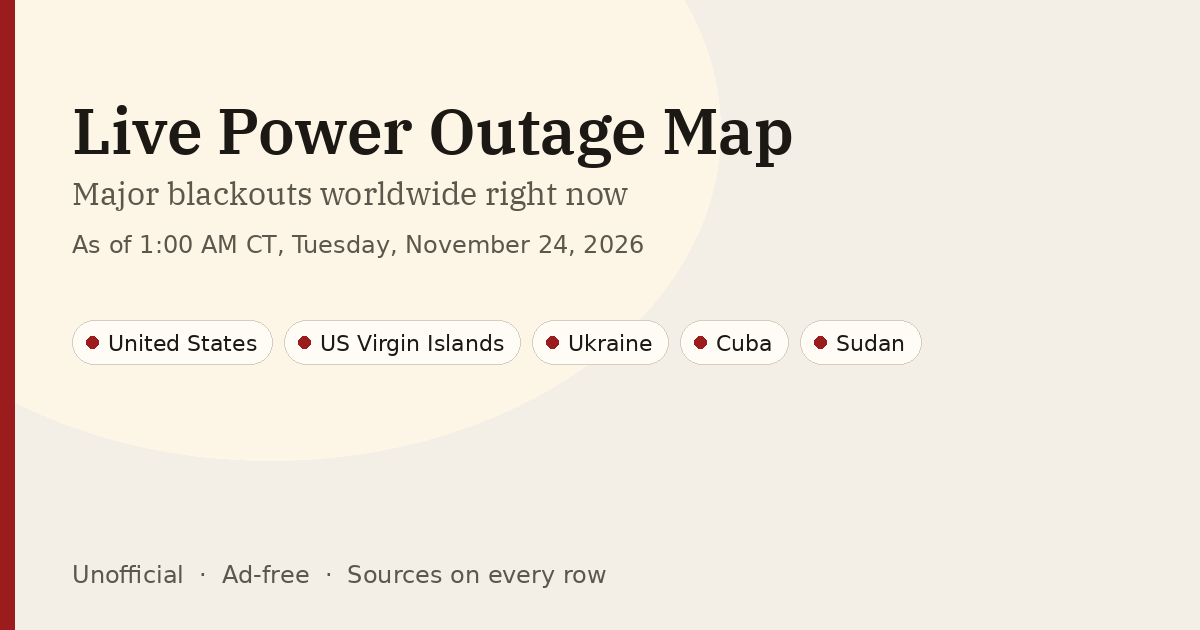
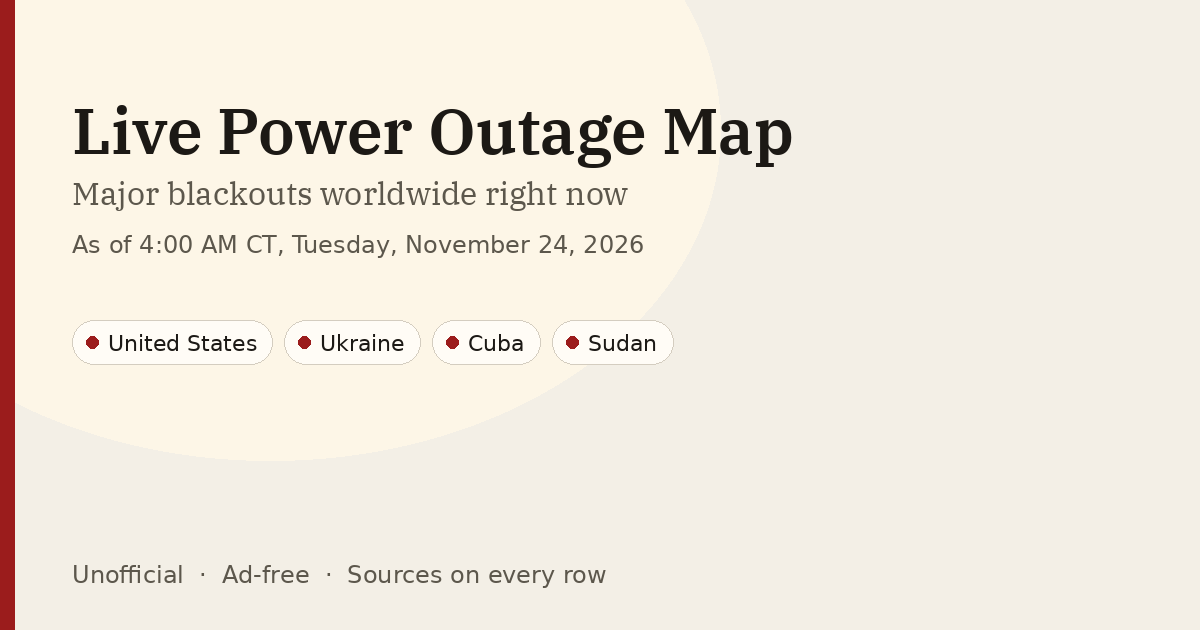
Update US outage data (4:12 AM CT)

Changed region(s): [[0.2775, 0.5127, 0.6475, 0.573], [0.6783, 0.5127, 0.7708, 0.573]]

diff --git a/index.html b/index.html
@@ -62,7 +62,7 @@
       "about": {
         "@id": "https://blackoutsmap.com/#dataset"
       },
-      "dateModified": "2026-11-24T01:00:00-06:00",
+      "dateModified": "2026-11-24T04:00:00-06:00",
       "primaryImageOfPage": "https://blackoutsmap.com/og-image.png",
       "inLanguage": "en"
     },
@@ -73,8 +73,8 @@
       "description": "A frequently updated list of significant power outages and electricity shortfalls worldwide. Each record gives the place, country or region, cause, customers affected or MW shortfall, start time, estimated restoration time when published, the source URL, and when it was last checked. US figures come from MassOutage (CC BY 4.0), with some state and territory counts from PowerOutage.us; other rows come from utility, grid operator, and news reports linked on each row. US data refreshes about hourly; the worldwide list updates a few times a day.",
       "url": "https://blackoutsmap.com/",
       "isAccessibleForFree": true,
-      "dateModified": "2026-11-24T01:00:00-06:00",
-      "temporalCoverage": "2026-11-24T01:00:00-06:00",
+      "dateModified": "2026-11-24T04:00:00-06:00",
+      "temporalCoverage": "2026-11-24T04:00:00-06:00",
       "spatialCoverage": {
         "@type": "Place",
         "name": "Worldwide"
@@ -107,7 +107,6 @@
         "load shedding",
         "Cuba",
         "Sudan",
-        "U.S. Virgin Islands",
         "Ukraine",
         "United States"
       ]
@@ -197,7 +196,7 @@
     <main>
     <header class="top">
       <h1>Live Power Outage Map</h1>
-      <p class="dateline">As of <strong id="as-of">1:00 AM CT, Tuesday, November 24, 2026</strong><br>Times in Central Time (CT)</p>
+      <p class="dateline">As of <strong id="as-of">4:00 AM CT, Tuesday, November 24, 2026</strong><br>Times in Central Time (CT)</p>
     </header>
 
     <p class="intro">This free, ad-free map tracks significant power outages and blackouts around the world right now. Each outage shows where it is, how many customers are affected, the cause, and the estimated restoration time when one is published, with a link to the source. It is unofficial: for your own address, check your electric utility's outage map. <a href="#faq">How this map works</a></p>
@@ -208,7 +207,7 @@
 
 
     <div class="metrics" id="metrics">
-      <article class="metric" id="metric-us"><!-- build:metric-us --><div class="label">United States</div><div class="value">54,207</div><div class="detail">54,207 customers out</div><!-- /build:metric-us --></article>
+      <article class="metric" id="metric-us"><!-- build:metric-us --><div class="label">United States</div><div class="value">24,279</div><div class="detail">24,279 customers out</div><!-- /build:metric-us --></article>
     </div>
 
     <nav class="region-nav" id="region-nav" aria-label="Outages by country">
@@ -218,7 +217,6 @@
 <li><a href="ukraine/">Ukraine power outage today</a></li>
 <li><a href="cuba/">Cuba power outage today</a></li>
 <li><a href="sudan/">Sudan power outage today</a></li>
-<li><a href="us-virgin-islands/">US Virgin Islands power outage today</a></li>
       <!-- /build:region-links --></ul>
     </nav>
 
@@ -251,12 +249,12 @@
             </tr>
           </thead>
           <tbody id="outage-body"><!-- build:table -->
-<tr><td class="place-cell"><a class="place-link" href="us/">United States</a></td><td>Nationwide</td><td class="empty">—</td><td>54,207 customers out</td><td class="empty">—</td><td class="empty">—</td><td><a href="https://massoutage.com/" target="_blank" rel="noopener noreferrer">MassOutage + PowerOutage.us</a></td><td>1:00 AM CT</td></tr>
-<tr><td class="place-cell"><a class="place-link" href="us/">California</a></td><td>United States</td><td class="empty">—</td><td>7,238 customers out</td><td class="empty">—</td><td class="empty">—</td><td><a href="https://massoutage.com/california" target="_blank" rel="noopener noreferrer">MassOutage</a></td><td>1:00 AM CT</td></tr>
-<tr><td class="place-cell"><a class="place-link" href="us-virgin-islands/">U.S. Virgin Islands</a></td><td>United States</td><td class="empty">—</td><td>6,636 customers out</td><td class="empty">—</td><td class="empty">—</td><td><a href="https://poweroutage.us/area/state/virgin%20islands" target="_blank" rel="noopener noreferrer">PowerOutage.us</a></td><td>2:13 PM CT</td></tr>
-<tr><td class="place-cell"><a class="place-link" href="us/">Texas</a></td><td>United States</td><td class="empty">—</td><td>5,927 customers out</td><td class="empty">—</td><td class="empty">—</td><td><a href="https://poweroutage.us/area/state/texas" target="_blank" rel="noopener noreferrer">PowerOutage.us</a></td><td>2:13 PM CT</td></tr>
-<tr><td class="place-cell"><a class="place-link" href="us/">Oregon</a></td><td>United States</td><td class="empty">—</td><td>4,441 customers out</td><td class="empty">—</td><td class="empty">—</td><td><a href="https://poweroutage.us/area/state/oregon" target="_blank" rel="noopener noreferrer">PowerOutage.us</a></td><td>2:13 PM CT</td></tr>
-<tr><td class="place-cell"><a class="place-link" href="us/">Georgia</a></td><td>United States</td><td class="empty">—</td><td>3,326 customers out</td><td class="empty">—</td><td class="empty">—</td><td><a href="https://poweroutage.us/area/state/georgia" target="_blank" rel="noopener noreferrer">PowerOutage.us</a></td><td>2:13 PM CT</td></tr>
+<tr><td class="place-cell"><a class="place-link" href="us/">United States</a></td><td>Nationwide</td><td class="empty">—</td><td>24,279 customers out</td><td class="empty">—</td><td class="empty">—</td><td><a href="https://massoutage.com/" target="_blank" rel="noopener noreferrer">MassOutage + PowerOutage.us</a></td><td>4:00 AM CT</td></tr>
+<tr><td class="place-cell"><a class="place-link" href="us/">South Carolina</a></td><td>United States</td><td class="empty">—</td><td>6,122 customers out</td><td class="empty">—</td><td class="empty">—</td><td><a href="https://massoutage.com/south-carolina" target="_blank" rel="noopener noreferrer">MassOutage</a></td><td>4:00 AM CT</td></tr>
+<tr><td class="place-cell"><a class="place-link" href="us/">California</a></td><td>United States</td><td class="empty">—</td><td>4,592 customers out</td><td class="empty">—</td><td class="empty">—</td><td><a href="https://poweroutage.us/area/state/california" target="_blank" rel="noopener noreferrer">PowerOutage.us</a></td><td>2:13 AM CT</td></tr>
+<tr><td class="place-cell"><a class="place-link" href="us/">Texas</a></td><td>United States</td><td class="empty">—</td><td>2,203 customers out</td><td class="empty">—</td><td class="empty">—</td><td><a href="https://massoutage.com/texas" target="_blank" rel="noopener noreferrer">MassOutage</a></td><td>4:00 AM CT</td></tr>
+<tr><td class="place-cell"><a class="place-link" href="us/">Louisiana</a></td><td>United States</td><td class="empty">—</td><td>1,029 customers out</td><td class="empty">—</td><td class="empty">—</td><td><a href="https://poweroutage.us/area/state/louisiana" target="_blank" rel="noopener noreferrer">PowerOutage.us</a></td><td>2:13 AM CT</td></tr>
+<tr><td class="place-cell"><a class="place-link" href="us/">Illinois</a></td><td>United States</td><td class="empty">—</td><td>1,011 customers out</td><td class="empty">—</td><td class="empty">—</td><td><a href="https://poweroutage.us/area/state/illinois" target="_blank" rel="noopener noreferrer">PowerOutage.us</a></td><td>2:13 AM CT</td></tr>
 <tr><td class="place-cell"><a class="place-link" href="ukraine/">Kyiv and nationwide</a></td><td>Ukraine</td><td class="clamp-cell"><span class="clamp-preview">Rolling and emergency blackouts after Russian attacks on energy</span><span class="clamp-full" id="clamp-full-1">Rolling and emergency blackouts after Russian attacks on energy infrastructure, including a large-scale attack on Nov 20 and further strikes reported on Nov 21 and into Nov 22 and Nov 23. Ukrenergo said planned outage schedules would be in effect around the clock on Monday, Nov 23, and again on Tuesday, Nov 24, in parts of the country because of those attacks</span><button type="button" class="clamp-toggle" aria-expanded="false" aria-label="Show full text" aria-controls="clamp-full-1">…</button></td><td class="clamp-cell"><span class="clamp-preview">Ukrenergo, as reported by LB.ua at 7:20 p.m. Monday, Nov 23 (11:20 a.m.</span><span class="clamp-full" id="clamp-full-2">Ukrenergo, as reported by LB.ua at 7:20 p.m. Monday, Nov 23 (11:20 a.m. CT if Kyiv time / EET), by UNIAN at 8:59 p.m. Monday, Nov 23 (12:59 p.m. CT if Kyiv time / EET), and by UNN at 5:13 p.m. Monday, Nov 23 (9:13 a.m. CT if Kyiv time / EET), said that on Tuesday, Nov 24, scheduled power-supply restrictions would be in effect around the clock in parts of Ukraine because of the aftermath of Russian attacks on the energy system: hourly outage schedules of 0.5 to 3.5 groups, or queues, for all categories of consumers, and capacity-limitation schedules for industrial consumers. UNIAN, citing Ukrenergo, said those 0.5 to 3.5 queues amounted to about 2 to 14 hours without power, and UNN likewise said one group means four hours without electricity, so Tuesday outages may last from 2 to 14 hours. UNIAN also summarized Tuesday regional schedules, saying that in Sumy and the Sumy region the total duration without power would be from six to 14 hours; that in Lviv and the Lviv region some queues had no outages scheduled and the rest would be switched off once for two to four and a half hours; that in Poltava and the Poltava region customers would be switched off four times a day, except for two half-queues with three and five periods, with each outage lasting from half an hour to three and a half hours; and that Kyiv schedules would be applied individually and should be checked through local operators. LB.ua, in the same Nov 23 report, said that at present the most difficult situation with electricity supply remained in Dnipropetrovsk and Odesa regions. Kyiv Independent, in an article dated 9:19 p.m. Monday, Nov 23 (1:19 p.m. CT if Kyiv time / EET), citing the private energy company DTEK, said Russian attacks on four DTEK energy facilities in Dnipropetrovsk Oblast over Nov 21 and Nov 22 had left about 353,000 households without electricity, that emergency power cuts were in effect in Dnipro and the Dniprovskyi, Samarivskyi, Kamianskyi, and Pavlohradskyi districts, with regular outage schedules suspended there, and that other parts of the region were subject to scheduled cuts ordered by Ukrenergo; DTEK, as quoted in that report, said emergency repair crews had worked through the night and were continuing restoration, prioritizing critical infrastructure, but that damage to main transmission networks meant technicians could not yet reconnect all consumers, and it did not give a timeline for restoring power to all affected households. NV, in an article dated 3:46 p.m. Monday, Nov 23 (7:46 a.m. CT if Kyiv time / EET), and Delo.ua, also citing DTEK, gave the same figure of about 353,000 households and said a significant part of Dnipro, the city of Samar, and adjacent districts had been left without power. Earlier Monday, Kyiv Post, in an article dated 2:18 p.m. Monday, Nov 23 (7:18 a.m. CT if Kyiv time / EET), citing Ukraine&#x27;s Energy Ministry and First Deputy Energy Minister Artem Nekrasov, said Russia had carried out 100 attacks on Ukraine&#x27;s energy, oil, and gas infrastructure over the past week, contributing to 224 recorded damage incidents, and that power outages had continued to affect seven regions on Monday, Nov 23: Dnipropetrovsk, Donetsk, Zhytomyr, Sumy, Kharkiv, Odesa, and Poltava, with the situation remaining particularly difficult in Odesa and Dnipropetrovsk regions. The same Kyiv Post report, citing Nekrasov, said energy workers had restored power to critical infrastructure facilities while repairs and efforts to reconnect households and businesses continued; that grid restrictions had been introduced in Dnipropetrovsk region to prevent further outages caused by overloads; that emergency power cuts remained in place in Kharkiv region because of previous damage and reduced voltage in the high-voltage transmission network, with scheduled outages to resume once the situation stabilized; and that Russian forces had also struck a gas-infrastructure facility in Dnipropetrovsk region in the previous days, injuring three employees. Kyiv Post also said that across most of Ukraine, hourly electricity outage schedules were in place on Nov 23, while industrial consumers faced power restrictions, and, citing Ukraine&#x27;s Air Force data reported by Ukrainian media, that on the night of Nov 23 Russia launched 153 attack drones against Ukraine, including 60 jet-powered Shahed drones, alongside Gerbera drones and Parodiya decoys. An earlier Sunday night Ukrenergo statement, as reported by Censor.NET at 10:24 p.m. EET Sunday, Nov 22 (2:24 p.m. CT), by UNIAN at 11:13 p.m. EET Sunday (3:13 p.m. CT), by Focus, and by 24tv, had said that on Monday, Nov 23, planned electricity outages would be in effect around the clock in parts of the country: hourly outage schedules of 1 to 3.5 groups, or queues, for all categories of consumers, and capacity-restriction schedules for industry. UNIAN, in that Sunday night report, said those 1 to 3.5 queues amounted to approximately 4 to 16 hours a day for household consumers. No official nationwide customer count was found as of 11:55 PM CT Monday, Nov 23 (7:55 a.m. EET Tuesday, Nov 24).</span><button type="button" class="clamp-toggle" aria-expanded="false" aria-label="Show full text" aria-controls="clamp-full-2">…</button></td><td class="empty">—</td><td class="empty">—</td><td><a href="https://en.lb.ua/news/2026/11/23/51172_ukrenergo_power_outage_schedules.html" target="_blank" rel="noopener noreferrer">en.lb.ua</a></td><td class="clamp-cell"><span class="clamp-preview">Nov 23-24, 2026, Ukrenergo Tuesday, Nov 24, schedules of 0.5 to 3.5</span><span class="clamp-full" id="clamp-full-3">Nov 23-24, 2026, Ukrenergo Tuesday, Nov 24, schedules of 0.5 to 3.5 queues around the clock, and industrial capacity limits, via LB.ua 7:20 p.m. Monday, Nov 23 (= 11:20 a.m. CT if Kyiv time / EET), UNIAN 8:59 p.m. Monday (= 12:59 p.m. CT if Kyiv time / EET), and UNN 5:13 p.m. Monday (= 9:13 a.m. CT if Kyiv time / EET), with UNIAN and UNN saying those queues amounted to about 2 to 14 hours, and LB.ua saying the most difficult supply situation remained in Dnipropetrovsk and Odesa regions; earlier Kyiv Independent dated 9:19 p.m. Monday, Nov 23 (= 1:19 p.m. CT if Kyiv time / EET), citing DTEK, on about 353,000 households without power in Dnipropetrovsk Oblast after attacks on four DTEK facilities on Nov 21-22, emergency cuts in Dnipro and four districts, and scheduled cuts elsewhere in the region; NV 3:46 p.m. Monday (= 7:46 a.m. CT if Kyiv time / EET) and Delo.ua, also citing DTEK, on the same 353,000-household figure and on a significant part of Dnipro, Samar, and adjacent districts left without power; earlier Kyiv Post dated 2:18 p.m. Monday, Nov 23 (= 7:18 a.m. CT if Kyiv time / EET), citing the Energy Ministry and First Deputy Energy Minister Artem Nekrasov, on 100 attacks on energy, oil, and gas infrastructure in the past week with 224 damage incidents, outages in seven regions on Monday with Odesa and Dnipropetrovsk among the hardest hit, emergency blackouts remaining in Kharkiv, grid restrictions in Dnipropetrovsk region, and, citing Ukraine&#x27;s Air Force data reported by Ukrainian media, 153 attack drones launched on the night of Nov 23, including 60 jet-powered Shahed drones; earlier Sunday night Ukrenergo schedules of 1 to 3.5 queues via Censor.NET, UNIAN, Focus, and 24tv, with UNIAN saying those queues amounted to approximately 4 to 16 hours a day; rechecked 11:55 PM CT Monday, Nov 23 (7:55 a.m. EET Tuesday, Nov 24), no official nationwide customer count found</span><button type="button" class="clamp-toggle" aria-expanded="false" aria-label="Show full text" aria-controls="clamp-full-3">…</button></td></tr>
 <tr><td class="place-cell"><a class="place-link" href="ukraine/">Odesa and parts of Odesa district</a></td><td>Odesa, Ukraine</td><td class="clamp-cell"><span class="clamp-preview">Repeated Russian attacks on high-voltage transmission networks and</span><span class="clamp-full" id="clamp-full-4">Repeated Russian attacks on high-voltage transmission networks and other energy facilities critical to the region, including a strike on a DTEK Odeski Elektromerezhi energy facility on the morning of Nov 20. Later on Monday, Nov 23, Odesa regional governor Oleh Kiper said scheduled power-outage timetables were being reinstated in place of emergency blackouts after energy workers restored damaged infrastructure, and DTEK Odeski Elektromerezhi said repairs had made a return to stabilization schedules possible, while warning that the energy system remained vulnerable to significant loads</span><button type="button" class="clamp-toggle" aria-expanded="false" aria-label="Show full text" aria-controls="clamp-full-4">…</button></td><td class="clamp-cell"><span class="clamp-preview">Odesa regional governor Oleh Kiper, as reported by LB.ua at 8:03 p.m.</span><span class="clamp-full" id="clamp-full-5">Odesa regional governor Oleh Kiper, as reported by LB.ua at 8:03 p.m. Monday, Nov 23 (12:03 p.m. CT if Kyiv time / EET), said that in Odesa and Odesa District, scheduled power-outage timetables were being reinstated in place of emergency blackouts, that the return to planned schedules had become possible because of continuous work by energy workers restoring damaged infrastructure, and that residents were being urged to use electricity sparingly so as not to overload the power system and cause new emergency outages. DTEK Odeski Elektromerezhi, in a Nov 23 statement on its website, said that thanks to difficult repairs and the restoration of equipment, energy workers had been able to return to stabilization schedules, that the energy system remained vulnerable to significant loads, and that customers should not turn on all electrical appliances at once when power returned, in order to avoid overloading the networks and causing new accidents; the company pointed customers to its website and chatbots for the current schedules. An earlier Monday statement by Kiper, as reported by Censor.NET at 12:35 p.m. EET Monday, Nov 23 (4:35 a.m. CT), by UNN at 10:11 a.m. Kyiv time Monday (2:11 a.m. CT), and by Slovo i Dilo at 12:38 p.m. EET Monday (4:38 a.m. CT), had said the electricity-supply situation in Odesa region remained difficult but that measures were being taken to stabilize it; that emergency outages without schedules were still being applied because the damaged equipment could not yet supply all consumers at once; that all critical infrastructure and some consumers had already been energized; that water was available in all districts, with possible pumping interruptions in some apartment buildings; that 9 of 11 large boiler houses were operating, with 2 more plus the CHP being brought online; that heat had already been supplied to 186,000 subscribers; and that about 79,000 consumers remained temporarily without heating. Ukrenergo, as reported Monday morning by UNN and Slovo i Dilo, had said the situation in Odesa Oblast had been partially stabilized and that electricity supply to critical infrastructure in Odesa had been restored after overnight repair work. No official remaining-electricity-customer count after the earlier Friday DTEK figures was found as of 11:55 PM CT Monday, Nov 23 (7:55 a.m. EET Tuesday, Nov 24).</span><button type="button" class="clamp-toggle" aria-expanded="false" aria-label="Show full text" aria-controls="clamp-full-5">…</button></td><td>Morning of Nov 20, 2026 (Kyiv time)</td><td class="empty">—</td><td><a href="https://en.lb.ua/news/2026/11/23/51184_odesa_district_return_scheduled.html" target="_blank" rel="noopener noreferrer">en.lb.ua</a></td><td class="clamp-cell"><span class="clamp-preview">Nov 23, 2026, Odesa regional governor Oleh Kiper via LB.ua 8:03 p.m.</span><span class="clamp-full" id="clamp-full-6">Nov 23, 2026, Odesa regional governor Oleh Kiper via LB.ua 8:03 p.m. Monday, Nov 23 (= 12:03 p.m. CT if Kyiv time / EET), on scheduled power-outage timetables being reinstated in Odesa and Odesa District in place of emergency blackouts after restoration of damaged infrastructure, with residents urged to use electricity sparingly; DTEK Odeski Elektromerezhi Nov 23 website statement on a return to stabilization schedules, the system remaining vulnerable to significant loads, and a request not to turn on all appliances at once; earlier Monday Kiper statement via Censor.NET 12:35 p.m. EET Monday (= 4:35 a.m. CT), UNN 10:11 a.m. Kyiv time Monday (= 2:11 a.m. CT), and Slovo i Dilo 12:38 p.m. EET Monday (= 4:38 a.m. CT), on a still-difficult supply situation, emergency outages then still being applied, all critical infrastructure and some consumers already energized, water in all districts, 9 of 11 large boiler houses operating, heat already supplied to 186,000 subscribers, and about 79,000 consumers temporarily without heating; Ukrenergo Monday morning statement via UNN and Slovo i Dilo that the Odesa Oblast situation had been partially stabilized and that critical infrastructure in Odesa had been restored; rechecked 11:55 PM CT Monday, Nov 23 (7:55 a.m. EET Tuesday, Nov 24), no official remaining-electricity-customer count after the earlier Friday DTEK figures found</span><button type="button" class="clamp-toggle" aria-expanded="false" aria-label="Show full text" aria-controls="clamp-full-6">…</button></td></tr>
 <tr><td class="place-cell"><a class="place-link" href="ukraine/">Dnipro, Samar, and parts of Dnipropetrovsk region, including Dniprovskyi, Samarivskyi, Kamianske, and Pavlohrad districts</a></td><td>Dnipropetrovsk, Ukraine</td><td class="clamp-cell"><span class="clamp-preview">Russian attacks on four DTEK energy facilities in Dnipropetrovsk Oblast</span><span class="clamp-full" id="clamp-full-7">Russian attacks on four DTEK energy facilities in Dnipropetrovsk Oblast over Nov 21 and Nov 22, according to DTEK, which said most of the facilities had been struck before, that equipment was damaged and fires broke out at several sites, and that damage to main transmission networks meant not all consumers could yet be reconnected. Emergency outages were in effect in Dnipro and in the Dniprovskyi, Samarivskyi, Kamianskyi, and Pavlohradskyi districts, where regular hourly schedules were not being applied</span><button type="button" class="clamp-toggle" aria-expanded="false" aria-label="Show full text" aria-controls="clamp-full-7">…</button></td><td class="clamp-cell"><span class="clamp-preview">DTEK, as reported by Kyiv Independent in an article dated 9:19 p.m.</span><span class="clamp-full" id="clamp-full-8">DTEK, as reported by Kyiv Independent in an article dated 9:19 p.m. Monday, Nov 23 (1:19 p.m. CT if Kyiv time / EET), by NV at 3:46 p.m. Monday, Nov 23 (7:46 a.m. CT if Kyiv time / EET), and by Delo.ua, said Russian attacks on four of its energy facilities in Dnipropetrovsk Oblast over two days, Nov 21 and Nov 22, had left about 353,000 households without electricity. Those reports, citing DTEK, said a significant part of Dnipro, the city of Samar, and adjacent districts had been left without power; that the facilities were hit in Dnipro and surrounding areas, damaging equipment and causing fires at several sites; that most of the facilities had been struck before; and that no energy workers were injured in the recent attacks. DTEK said emergency repair crews had worked through the night and were continuing restoration efforts, prioritizing electricity supplies to critical infrastructure, but that damage to main transmission networks meant technicians could not yet reconnect all consumers, and it did not give a timeline for restoring power to all affected households. Emergency power cuts were in effect in Dnipro and the Dniprovskyi, Samarivskyi, Kamianskyi, and Pavlohradskyi districts, with regular outage schedules suspended there; other parts of the region were subject to scheduled cuts ordered by Ukrenergo. An earlier Monday morning account from Ukrenergo, as reported by UNN at 10:11 a.m. Kyiv time Monday, Nov 23 (2:11 a.m. CT) and by Slovo i Dilo at 12:38 p.m. EET Monday (4:38 a.m. CT), had said the Dnipropetrovsk Oblast situation remained significantly more difficult, with hourly outage schedules in effect and overnight restoration work after significant damage from Russian attacks. Dnipropetrovsk regional council head Mykola Lukashuk, via Vidomo at 10:59 a.m. Monday (2:59 a.m. CT if Kyiv time / EET), had said emergency outages remained in effect in Dnipro and in the Dniprovskyi, Samarivskyi, Kamianske, and Pavlohrad districts, where DTEK hourly schedules were not being applied, with an hourly schedule in effect for Central Energy Company (CEK) customers and a separate schedule for part of Pavlohrad. No later official remaining-customer count after the DTEK figure of about 353,000 households was found as of 11:55 PM CT Monday, Nov 23 (7:55 a.m. EET Tuesday, Nov 24).</span><button type="button" class="clamp-toggle" aria-expanded="false" aria-label="Show full text" aria-controls="clamp-full-8">…</button></td><td class="empty">—</td><td class="empty">—</td><td><a href="https://www.kyivindependent.com/over-350-000-homes-without-power-as-energy-crisis-deepens-in-dnipropetrovsk-oblast/" target="_blank" rel="noopener noreferrer">kyivindependent.com</a></td><td class="clamp-cell"><span class="clamp-preview">Nov 23, 2026, DTEK via Kyiv Independent dated 9:19 p.m. Monday, Nov 23</span><span class="clamp-full" id="clamp-full-9">Nov 23, 2026, DTEK via Kyiv Independent dated 9:19 p.m. Monday, Nov 23 (= 1:19 p.m. CT if Kyiv time / EET), NV 3:46 p.m. Monday (= 7:46 a.m. CT if Kyiv time / EET), and Delo.ua, on about 353,000 households without power after attacks on four DTEK facilities on Nov 21-22, a significant part of Dnipro, Samar, and adjacent districts left without power, emergency cuts in Dnipro and four districts, scheduled cuts elsewhere in the region, overnight repairs prioritizing critical infrastructure, and no timeline for full restoration; earlier Monday morning Ukrenergo update via UNN 10:11 a.m. Kyiv time Monday (= 2:11 a.m. CT) and Slovo i Dilo 12:38 p.m. EET Monday (= 4:38 a.m. CT), saying the Dnipropetrovsk Oblast situation remained significantly more difficult; Dnipropetrovsk regional council head Mykola Lukashuk via Vidomo 10:59 a.m. Monday (= 2:59 a.m. CT if Kyiv time / EET), on emergency outages in Dnipro and four districts; rechecked 11:55 PM CT Monday, Nov 23 (7:55 a.m. EET Tuesday, Nov 24), no later official remaining-customer count after the DTEK figure of about 353,000 households found</span><button type="button" class="clamp-toggle" aria-expanded="false" aria-label="Show full text" aria-controls="clamp-full-9">…</button></td></tr>
@@ -310,11 +308,11 @@
       <h2>Sources</h2>
       <ul id="source-list"><!-- build:sources -->
       <li><a href="https://massoutage.com/" target="_blank" rel="noopener noreferrer">MassOutage + PowerOutage.us</a></li>
-<li><a href="https://massoutage.com/california" target="_blank" rel="noopener noreferrer">MassOutage</a></li>
-<li><a href="https://poweroutage.us/area/state/virgin%20islands" target="_blank" rel="noopener noreferrer">PowerOutage.us</a></li>
-<li><a href="https://poweroutage.us/area/state/texas" target="_blank" rel="noopener noreferrer">PowerOutage.us</a></li>
-<li><a href="https://poweroutage.us/area/state/oregon" target="_blank" rel="noopener noreferrer">PowerOutage.us</a></li>
-<li><a href="https://poweroutage.us/area/state/georgia" target="_blank" rel="noopener noreferrer">PowerOutage.us</a></li>
+<li><a href="https://massoutage.com/south-carolina" target="_blank" rel="noopener noreferrer">MassOutage</a></li>
+<li><a href="https://poweroutage.us/area/state/california" target="_blank" rel="noopener noreferrer">PowerOutage.us</a></li>
+<li><a href="https://massoutage.com/texas" target="_blank" rel="noopener noreferrer">MassOutage</a></li>
+<li><a href="https://poweroutage.us/area/state/louisiana" target="_blank" rel="noopener noreferrer">PowerOutage.us</a></li>
+<li><a href="https://poweroutage.us/area/state/illinois" target="_blank" rel="noopener noreferrer">PowerOutage.us</a></li>
 <li><a href="https://en.lb.ua/news/2026/11/23/51172_ukrenergo_power_outage_schedules.html" target="_blank" rel="noopener noreferrer">en.lb.ua</a></li>
 <li><a href="https://en.lb.ua/news/2026/11/23/51184_odesa_district_return_scheduled.html" target="_blank" rel="noopener noreferrer">en.lb.ua</a></li>
 <li><a href="https://www.kyivindependent.com/over-350-000-homes-without-power-as-energy-crisis-deepens-in-dnipropetrovsk-oblast/" target="_blank" rel="noopener noreferrer">kyivindependent.com</a></li>
@@ -357,11 +355,11 @@
     /* build:region-hrefs */
     const REGION_HREFS = {
       "United States|Nationwide": "us/",
+      "South Carolina|United States": "us/",
       "California|United States": "us/",
-      "U.S. Virgin Islands|United States": "us-virgin-islands/",
       "Texas|United States": "us/",
-      "Oregon|United States": "us/",
-      "Georgia|United States": "us/",
+      "Louisiana|United States": "us/",
+      "Illinois|United States": "us/",
       "Kyiv and nationwide|Ukraine": "ukraine/",
       "Odesa and parts of Odesa district|Odesa, Ukraine": "ukraine/",
       "Dnipro, Samar, and parts of Dnipropetrovsk region, including Dniprovskyi, Samarivskyi, Kamianske, and Pavlohrad districts|Dnipropetrovsk, Ukraine": "ukraine/",

diff --git a/us/index.html b/us/index.html
@@ -4,7 +4,7 @@
   <meta charset="utf-8">
   <meta name="viewport" content="width=device-width, initial-scale=1">
   <title>US Power Outage Today | Live Power Outage Map</title>
-  <meta name="description" content="Power outages in the United States right now: customers affected, causes, and restoration times, with sources. United States: 54,207 customers out California: 7,238 customers out">
+  <meta name="description" content="Power outages in the United States right now: customers affected, causes, and restoration times, with sources. United States: 24,279 customers out South Carolina: 6,122 customers out">
   <meta name="robots" content="index,follow,max-image-preview:large,max-snippet:-1">
   <meta name="theme-color" content="#f3efe6">
   <link rel="canonical" href="https://blackoutsmap.com/us/">
@@ -12,7 +12,7 @@
   <link rel="stylesheet" href="../site.css">
   <meta property="og:type" content="website">
   <meta property="og:title" content="US Power Outage Today | Live Power Outage Map">
-  <meta property="og:description" content="Power outages in the United States right now: customers affected, causes, and restoration times, with sources. United States: 54,207 customers out California: 7,238 customers out">
+  <meta property="og:description" content="Power outages in the United States right now: customers affected, causes, and restoration times, with sources. United States: 24,279 customers out South Carolina: 6,122 customers out">
   <meta property="og:url" content="https://blackoutsmap.com/us/">
   <meta property="og:site_name" content="Live Power Outage Map">
   <meta property="og:locale" content="en_US">
@@ -23,7 +23,7 @@
   <meta property="og:image:alt" content="Live Power Outage Map: major blackouts worldwide right now">
   <meta name="twitter:card" content="summary_large_image">
   <meta name="twitter:title" content="US Power Outage Today | Live Power Outage Map">
-  <meta name="twitter:description" content="Power outages in the United States right now: customers affected, causes, and restoration times, with sources. United States: 54,207 customers out California: 7,238 customers out">
+  <meta name="twitter:description" content="Power outages in the United States right now: customers affected, causes, and restoration times, with sources. United States: 24,279 customers out South Carolina: 6,122 customers out">
   <meta name="twitter:image" content="https://blackoutsmap.com/og-image.png">
   <meta name="twitter:image:alt" content="Live Power Outage Map: major blackouts worldwide right now">
 
@@ -36,14 +36,14 @@
       "@id": "https://blackoutsmap.com/us/#webpage",
       "name": "US Power Outage Today",
       "url": "https://blackoutsmap.com/us/",
-      "description": "Power outages in the United States right now: customers affected, causes, and restoration times, with sources. United States: 54,207 customers out California: 7,238 customers out",
+      "description": "Power outages in the United States right now: customers affected, causes, and restoration times, with sources. United States: 24,279 customers out South Carolina: 6,122 customers out",
       "isPartOf": {
         "@type": "WebSite",
         "@id": "https://blackoutsmap.com/#website",
         "name": "Live Power Outage Map",
         "url": "https://blackoutsmap.com/"
       },
-      "dateModified": "2026-11-24T01:00:00-06:00",
+      "dateModified": "2026-11-24T04:00:00-06:00",
       "inLanguage": "en",
       "breadcrumb": {
         "@id": "https://blackoutsmap.com/us/#breadcrumb"
@@ -86,7 +86,7 @@
     <nav class="breadcrumb back-link" aria-label="Breadcrumb"><a href="../">← Live worldwide power outage map</a> <span aria-hidden="true">/</span> <span aria-current="page">US Power Outage Today</span></nav>
     <header class="top">
       <h1>US Power Outage Today</h1>
-      <p class="dateline">As of <strong>1:00 AM CT, Tuesday, November 24, 2026</strong><br>Times in Central Time (CT)</p>
+      <p class="dateline">As of <strong>4:00 AM CT, Tuesday, November 24, 2026</strong><br>Times in Central Time (CT)</p>
     </header>
     <p class="region-lede">Unofficial snapshot of significant power outages in the United States. Figures come from public utility and news reports and are not invented. Confirm any outage with the local utility. For the latest worldwide list, see the <a href="../">live power outage map</a>.</p>
     <section class="panel" aria-labelledby="table-heading">
@@ -106,12 +106,12 @@
             </tr>
           </thead>
           <tbody>
-<tr><td class="place-cell"><a class="place-link" href="../us/">United States</a></td><td>Nationwide</td><td class="empty">—</td><td>54,207 customers out</td><td class="empty">—</td><td class="empty">—</td><td><a href="https://massoutage.com/" target="_blank" rel="noopener noreferrer">MassOutage + PowerOutage.us</a></td><td>1:00 AM CT</td></tr>
-<tr><td class="place-cell"><a class="place-link" href="../us/">California</a></td><td>United States</td><td class="empty">—</td><td>7,238 customers out</td><td class="empty">—</td><td class="empty">—</td><td><a href="https://massoutage.com/california" target="_blank" rel="noopener noreferrer">MassOutage</a></td><td>1:00 AM CT</td></tr>
-<tr><td class="place-cell"><a class="place-link" href="../us-virgin-islands/">U.S. Virgin Islands</a></td><td>United States</td><td class="empty">—</td><td>6,636 customers out</td><td class="empty">—</td><td class="empty">—</td><td><a href="https://poweroutage.us/area/state/virgin%20islands" target="_blank" rel="noopener noreferrer">PowerOutage.us</a></td><td>2:13 PM CT</td></tr>
-<tr><td class="place-cell"><a class="place-link" href="../us/">Texas</a></td><td>United States</td><td class="empty">—</td><td>5,927 customers out</td><td class="empty">—</td><td class="empty">—</td><td><a href="https://poweroutage.us/area/state/texas" target="_blank" rel="noopener noreferrer">PowerOutage.us</a></td><td>2:13 PM CT</td></tr>
-<tr><td class="place-cell"><a class="place-link" href="../us/">Oregon</a></td><td>United States</td><td class="empty">—</td><td>4,441 customers out</td><td class="empty">—</td><td class="empty">—</td><td><a href="https://poweroutage.us/area/state/oregon" target="_blank" rel="noopener noreferrer">PowerOutage.us</a></td><td>2:13 PM CT</td></tr>
-<tr><td class="place-cell"><a class="place-link" href="../us/">Georgia</a></td><td>United States</td><td class="empty">—</td><td>3,326 customers out</td><td class="empty">—</td><td class="empty">—</td><td><a href="https://poweroutage.us/area/state/georgia" target="_blank" rel="noopener noreferrer">PowerOutage.us</a></td><td>2:13 PM CT</td></tr>
+<tr><td class="place-cell"><a class="place-link" href="../us/">United States</a></td><td>Nationwide</td><td class="empty">—</td><td>24,279 customers out</td><td class="empty">—</td><td class="empty">—</td><td><a href="https://massoutage.com/" target="_blank" rel="noopener noreferrer">MassOutage + PowerOutage.us</a></td><td>4:00 AM CT</td></tr>
+<tr><td class="place-cell"><a class="place-link" href="../us/">South Carolina</a></td><td>United States</td><td class="empty">—</td><td>6,122 customers out</td><td class="empty">—</td><td class="empty">—</td><td><a href="https://massoutage.com/south-carolina" target="_blank" rel="noopener noreferrer">MassOutage</a></td><td>4:00 AM CT</td></tr>
+<tr><td class="place-cell"><a class="place-link" href="../us/">California</a></td><td>United States</td><td class="empty">—</td><td>4,592 customers out</td><td class="empty">—</td><td class="empty">—</td><td><a href="https://poweroutage.us/area/state/california" target="_blank" rel="noopener noreferrer">PowerOutage.us</a></td><td>2:13 AM CT</td></tr>
+<tr><td class="place-cell"><a class="place-link" href="../us/">Texas</a></td><td>United States</td><td class="empty">—</td><td>2,203 customers out</td><td class="empty">—</td><td class="empty">—</td><td><a href="https://massoutage.com/texas" target="_blank" rel="noopener noreferrer">MassOutage</a></td><td>4:00 AM CT</td></tr>
+<tr><td class="place-cell"><a class="place-link" href="../us/">Louisiana</a></td><td>United States</td><td class="empty">—</td><td>1,029 customers out</td><td class="empty">—</td><td class="empty">—</td><td><a href="https://poweroutage.us/area/state/louisiana" target="_blank" rel="noopener noreferrer">PowerOutage.us</a></td><td>2:13 AM CT</td></tr>
+<tr><td class="place-cell"><a class="place-link" href="../us/">Illinois</a></td><td>United States</td><td class="empty">—</td><td>1,011 customers out</td><td class="empty">—</td><td class="empty">—</td><td><a href="https://poweroutage.us/area/state/illinois" target="_blank" rel="noopener noreferrer">PowerOutage.us</a></td><td>2:13 AM CT</td></tr>
           </tbody>
         </table>
       </div>
@@ -123,7 +123,6 @@
 <li><a href="../ukraine/">Ukraine power outage today</a></li>
 <li><a href="../cuba/">Cuba power outage today</a></li>
 <li><a href="../sudan/">Sudan power outage today</a></li>
-<li><a href="../us-virgin-islands/">US Virgin Islands power outage today</a></li>
       </ul>
     </nav>
     </main>
@@ -131,11 +130,11 @@
       <h2>Sources</h2>
       <ul>
 <li><a href="https://massoutage.com/" target="_blank" rel="noopener noreferrer">MassOutage + PowerOutage.us</a></li>
-<li><a href="https://massoutage.com/california" target="_blank" rel="noopener noreferrer">MassOutage</a></li>
-<li><a href="https://poweroutage.us/area/state/virgin%20islands" target="_blank" rel="noopener noreferrer">PowerOutage.us</a></li>
-<li><a href="https://poweroutage.us/area/state/texas" target="_blank" rel="noopener noreferrer">PowerOutage.us</a></li>
-<li><a href="https://poweroutage.us/area/state/oregon" target="_blank" rel="noopener noreferrer">PowerOutage.us</a></li>
-<li><a href="https://poweroutage.us/area/state/georgia" target="_blank" rel="noopener noreferrer">PowerOutage.us</a></li>
+<li><a href="https://massoutage.com/south-carolina" target="_blank" rel="noopener noreferrer">MassOutage</a></li>
+<li><a href="https://poweroutage.us/area/state/california" target="_blank" rel="noopener noreferrer">PowerOutage.us</a></li>
+<li><a href="https://massoutage.com/texas" target="_blank" rel="noopener noreferrer">MassOutage</a></li>
+<li><a href="https://poweroutage.us/area/state/louisiana" target="_blank" rel="noopener noreferrer">PowerOutage.us</a></li>
+<li><a href="https://poweroutage.us/area/state/illinois" target="_blank" rel="noopener noreferrer">PowerOutage.us</a></li>
       </ul>
       <p>This is an unofficial snapshot compiled from public utility and news reports. It is not an official government or utility outage map. Confirm outages with the local utility. US outage figures are from <a href="https://massoutage.com/" target="_blank" rel="noopener noreferrer">MassOutage</a>, licensed <a href="https://creativecommons.org/licenses/by/4.0/" target="_blank" rel="noopener noreferrer">CC BY 4.0</a>; some state and territory counts also use PowerOutage.us.</p>
     </footer>

diff --git a/ukraine/index.html b/ukraine/index.html
@@ -43,7 +43,7 @@
         "name": "Live Power Outage Map",
         "url": "https://blackoutsmap.com/"
       },
-      "dateModified": "2026-11-24T01:00:00-06:00",
+      "dateModified": "2026-11-24T04:00:00-06:00",
       "inLanguage": "en",
       "breadcrumb": {
         "@id": "https://blackoutsmap.com/ukraine/#breadcrumb"
@@ -86,7 +86,7 @@
     <nav class="breadcrumb back-link" aria-label="Breadcrumb"><a href="../">← Live worldwide power outage map</a> <span aria-hidden="true">/</span> <span aria-current="page">Ukraine Power Outage Today</span></nav>
     <header class="top">
       <h1>Ukraine Power Outage Today</h1>
-      <p class="dateline">As of <strong>1:00 AM CT, Tuesday, November 24, 2026</strong><br>Times in Central Time (CT)</p>
+      <p class="dateline">As of <strong>4:00 AM CT, Tuesday, November 24, 2026</strong><br>Times in Central Time (CT)</p>
     </header>
     <p class="region-lede">Unofficial snapshot of significant power outages in Ukraine. Figures come from public utility and news reports and are not invented. Confirm any outage with the local utility. For the latest worldwide list, see the <a href="../">live power outage map</a>.</p>
     <section class="panel" aria-labelledby="table-heading">
@@ -122,7 +122,6 @@
 <li><a href="../us/">US power outage today</a></li>
 <li><a href="../cuba/">Cuba power outage today</a></li>
 <li><a href="../sudan/">Sudan power outage today</a></li>
-<li><a href="../us-virgin-islands/">US Virgin Islands power outage today</a></li>
       </ul>
     </nav>
     </main>

diff --git a/sudan/index.html b/sudan/index.html
@@ -43,7 +43,7 @@
         "name": "Live Power Outage Map",
         "url": "https://blackoutsmap.com/"
       },
-      "dateModified": "2026-11-24T01:00:00-06:00",
+      "dateModified": "2026-11-24T04:00:00-06:00",
       "inLanguage": "en",
       "breadcrumb": {
         "@id": "https://blackoutsmap.com/sudan/#breadcrumb"
@@ -86,7 +86,7 @@
     <nav class="breadcrumb back-link" aria-label="Breadcrumb"><a href="../">← Live worldwide power outage map</a> <span aria-hidden="true">/</span> <span aria-current="page">Sudan Power Outage Today</span></nav>
     <header class="top">
       <h1>Sudan Power Outage Today</h1>
-      <p class="dateline">As of <strong>1:00 AM CT, Tuesday, November 24, 2026</strong><br>Times in Central Time (CT)</p>
+      <p class="dateline">As of <strong>4:00 AM CT, Tuesday, November 24, 2026</strong><br>Times in Central Time (CT)</p>
     </header>
     <p class="region-lede">Unofficial snapshot of significant power outages in Sudan. Figures come from public utility and news reports and are not invented. Confirm any outage with the local utility. For the latest worldwide list, see the <a href="../">live power outage map</a>.</p>
     <section class="panel" aria-labelledby="table-heading">
@@ -118,7 +118,6 @@
 <li><a href="../us/">US power outage today</a></li>
 <li><a href="../ukraine/">Ukraine power outage today</a></li>
 <li><a href="../cuba/">Cuba power outage today</a></li>
-<li><a href="../us-virgin-islands/">US Virgin Islands power outage today</a></li>
       </ul>
     </nav>
     </main>

diff --git a/cuba/index.html b/cuba/index.html
@@ -43,7 +43,7 @@
         "name": "Live Power Outage Map",
         "url": "https://blackoutsmap.com/"
       },
-      "dateModified": "2026-11-24T01:00:00-06:00",
+      "dateModified": "2026-11-24T04:00:00-06:00",
       "inLanguage": "en",
       "breadcrumb": {
         "@id": "https://blackoutsmap.com/cuba/#breadcrumb"
@@ -86,7 +86,7 @@
     <nav class="breadcrumb back-link" aria-label="Breadcrumb"><a href="../">← Live worldwide power outage map</a> <span aria-hidden="true">/</span> <span aria-current="page">Cuba Power Outage Today</span></nav>
     <header class="top">
       <h1>Cuba Power Outage Today</h1>
-      <p class="dateline">As of <strong>1:00 AM CT, Tuesday, November 24, 2026</strong><br>Times in Central Time (CT)</p>
+      <p class="dateline">As of <strong>4:00 AM CT, Tuesday, November 24, 2026</strong><br>Times in Central Time (CT)</p>
     </header>
     <p class="region-lede">Unofficial snapshot of significant power outages in Cuba. Figures come from public utility and news reports and are not invented. Confirm any outage with the local utility. For the latest worldwide list, see the <a href="../">live power outage map</a>.</p>
     <section class="panel" aria-labelledby="table-heading">
@@ -118,7 +118,6 @@
 <li><a href="../us/">US power outage today</a></li>
 <li><a href="../ukraine/">Ukraine power outage today</a></li>
 <li><a href="../sudan/">Sudan power outage today</a></li>
-<li><a href="../us-virgin-islands/">US Virgin Islands power outage today</a></li>
       </ul>
     </nav>
     </main>
